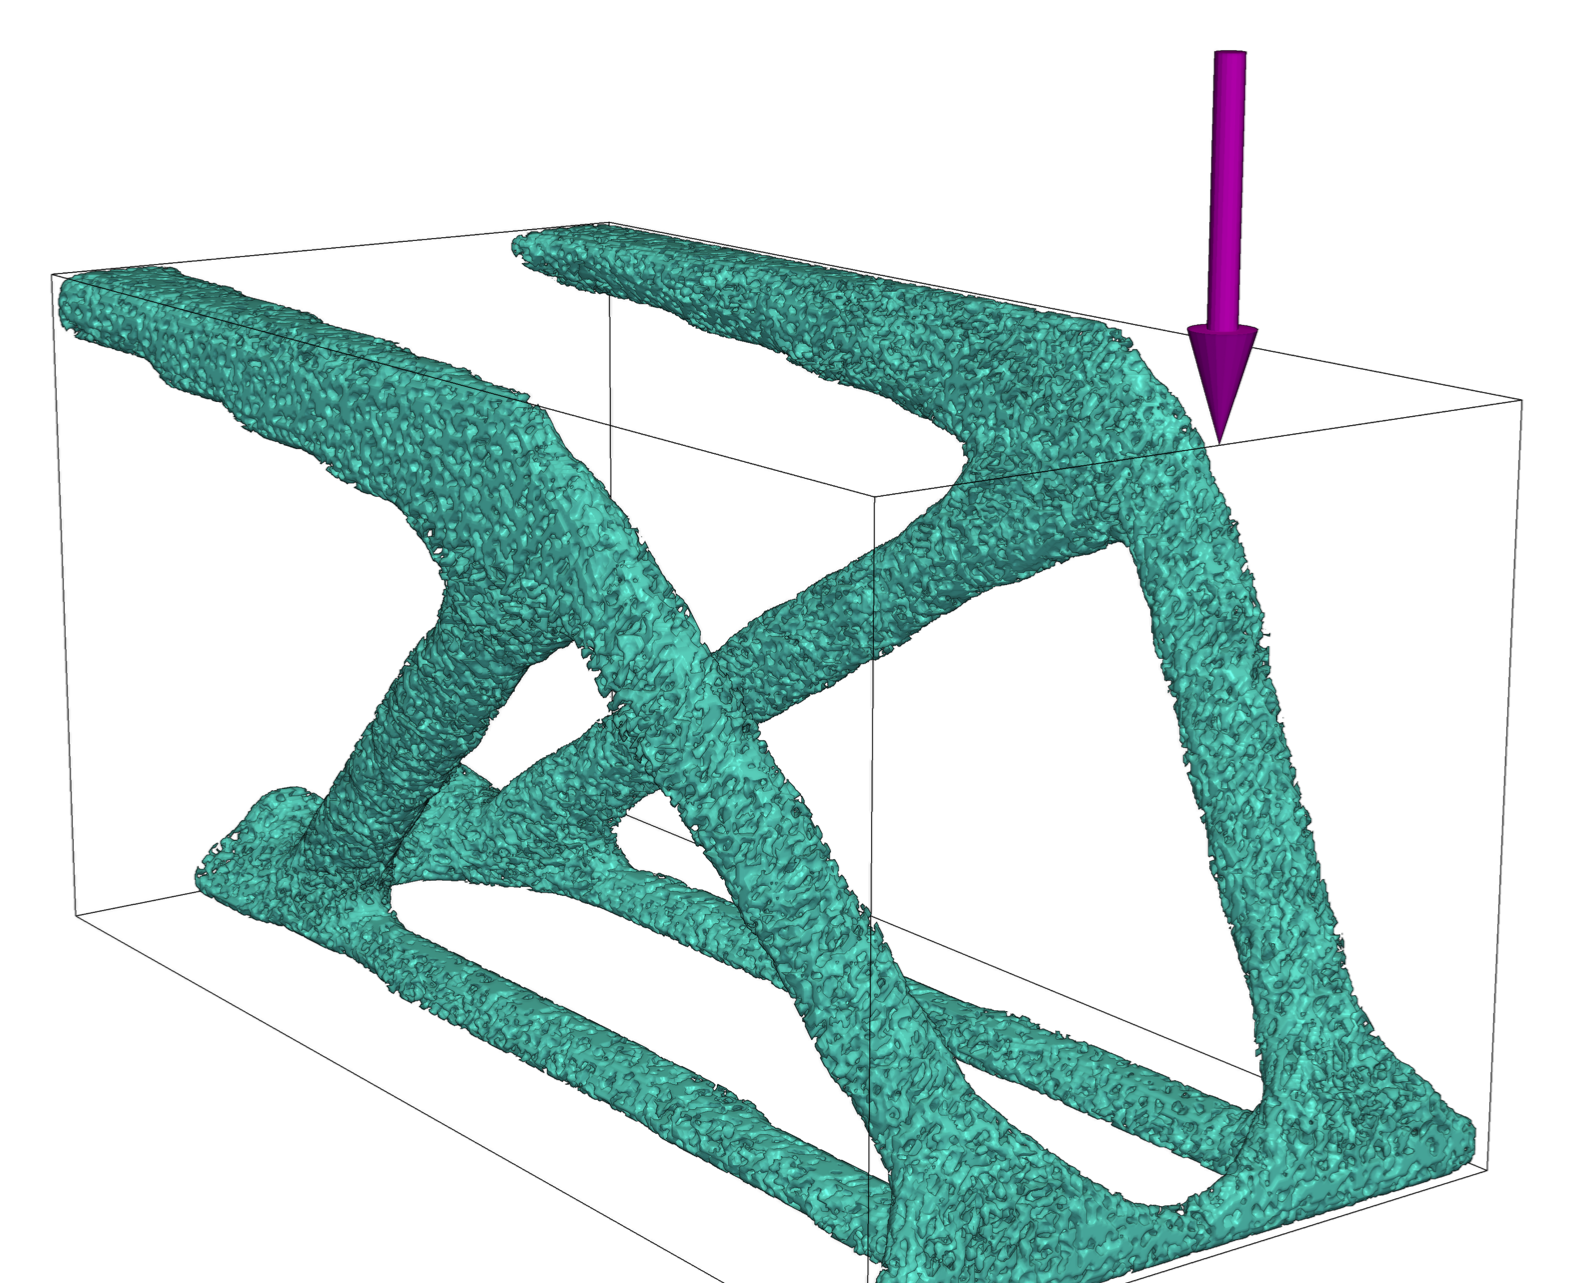
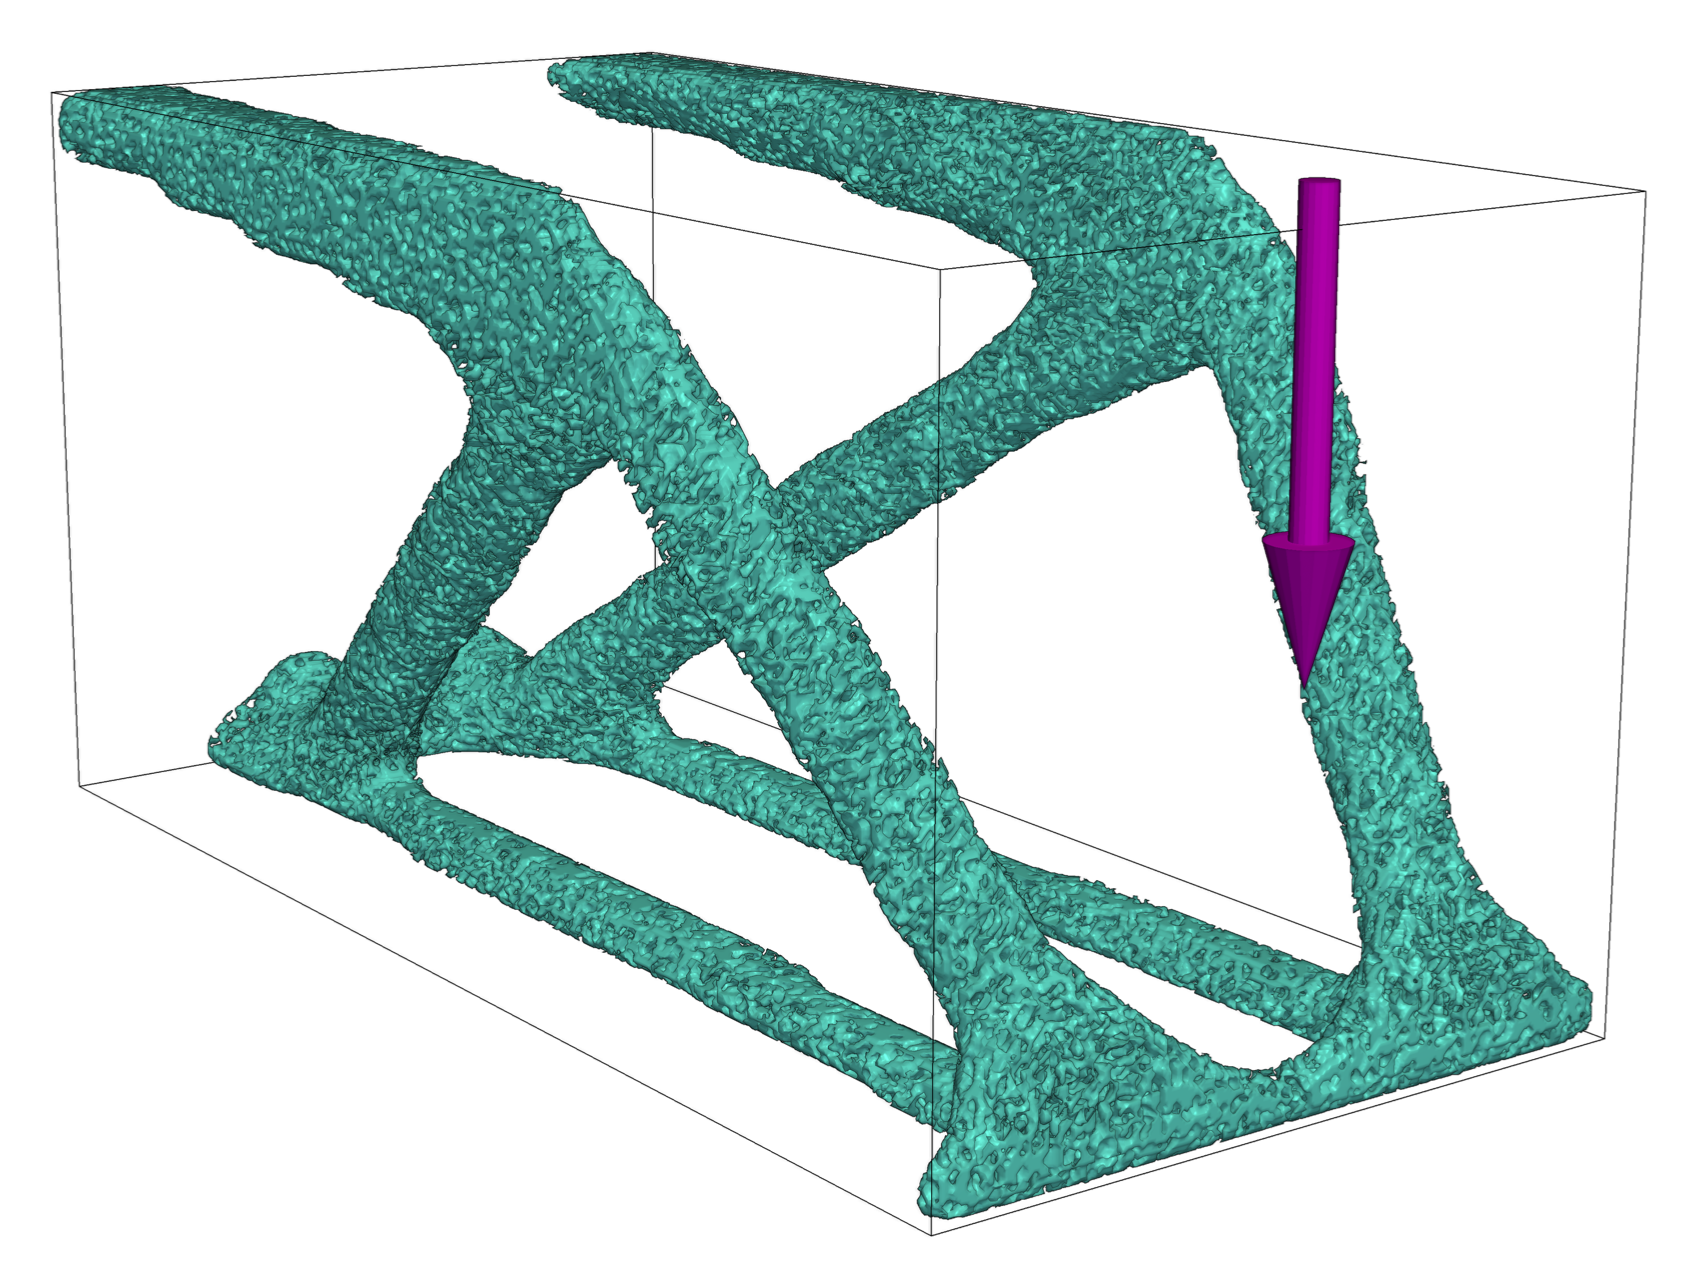
Move Fig 5d load arrow to end-face center

diff --git a/spinodal_pytopo3d/render_spinodal.py b/spinodal_pytopo3d/render_spinodal.py
@@ -299,12 +299,14 @@ def render(mesh, out_png, nx, ny, nz, color="#4DB6AC", box=True, size=(2200, 150
         pl.add_mesh(pv.Box(bounds=(0, nx, 0, ny, 0, nz)).extract_all_edges(),
                     color="black", line_width=2)
     if annotate:
-        # load arrow at the free end (x=nx), pointing -z (magenta, like the paper)
-        alen = 0.45 * nz
-        pl.add_mesh(pv.Arrow(start=(nx, ny / 2, nz + alen), direction=(0, 0, -1),
+        # Concentrated load at the center of the free-end face (x=nx), pointing -x3.
+        alen = 0.55 * nz
+        load_point = (nx, ny / 2, nz / 2)
+        arrow_start = (load_point[0], load_point[1], load_point[2] + alen)
+        pl.add_mesh(pv.Arrow(start=arrow_start, direction=(0, 0, -1),
                              scale=alen, tip_length=0.3, shaft_radius=0.04,
                              tip_radius=0.09), color="magenta")
-        pl.add_point_labels([(nx, ny / 2, nz + alen)], ["Load"], font_size=26,
+        pl.add_point_labels([arrow_start], ["Load"], font_size=26,
                             text_color="magenta", shape=None, show_points=False)
         if not presentation:
             pl.add_axes(xlabel="x1", ylabel="x2", zlabel="x3", line_width=3)
